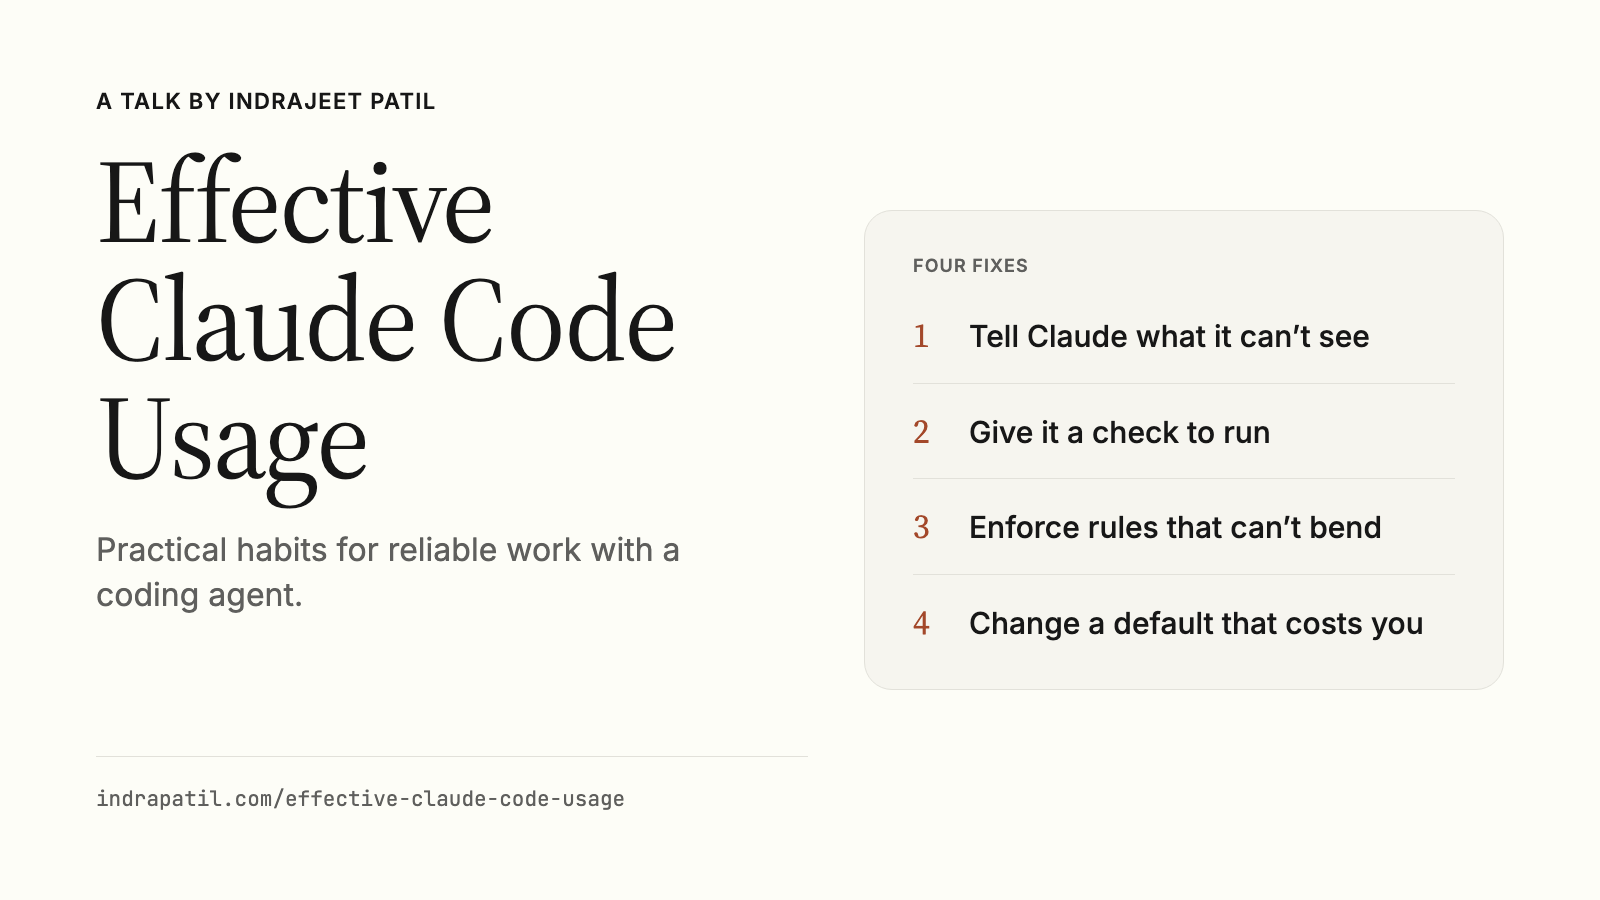
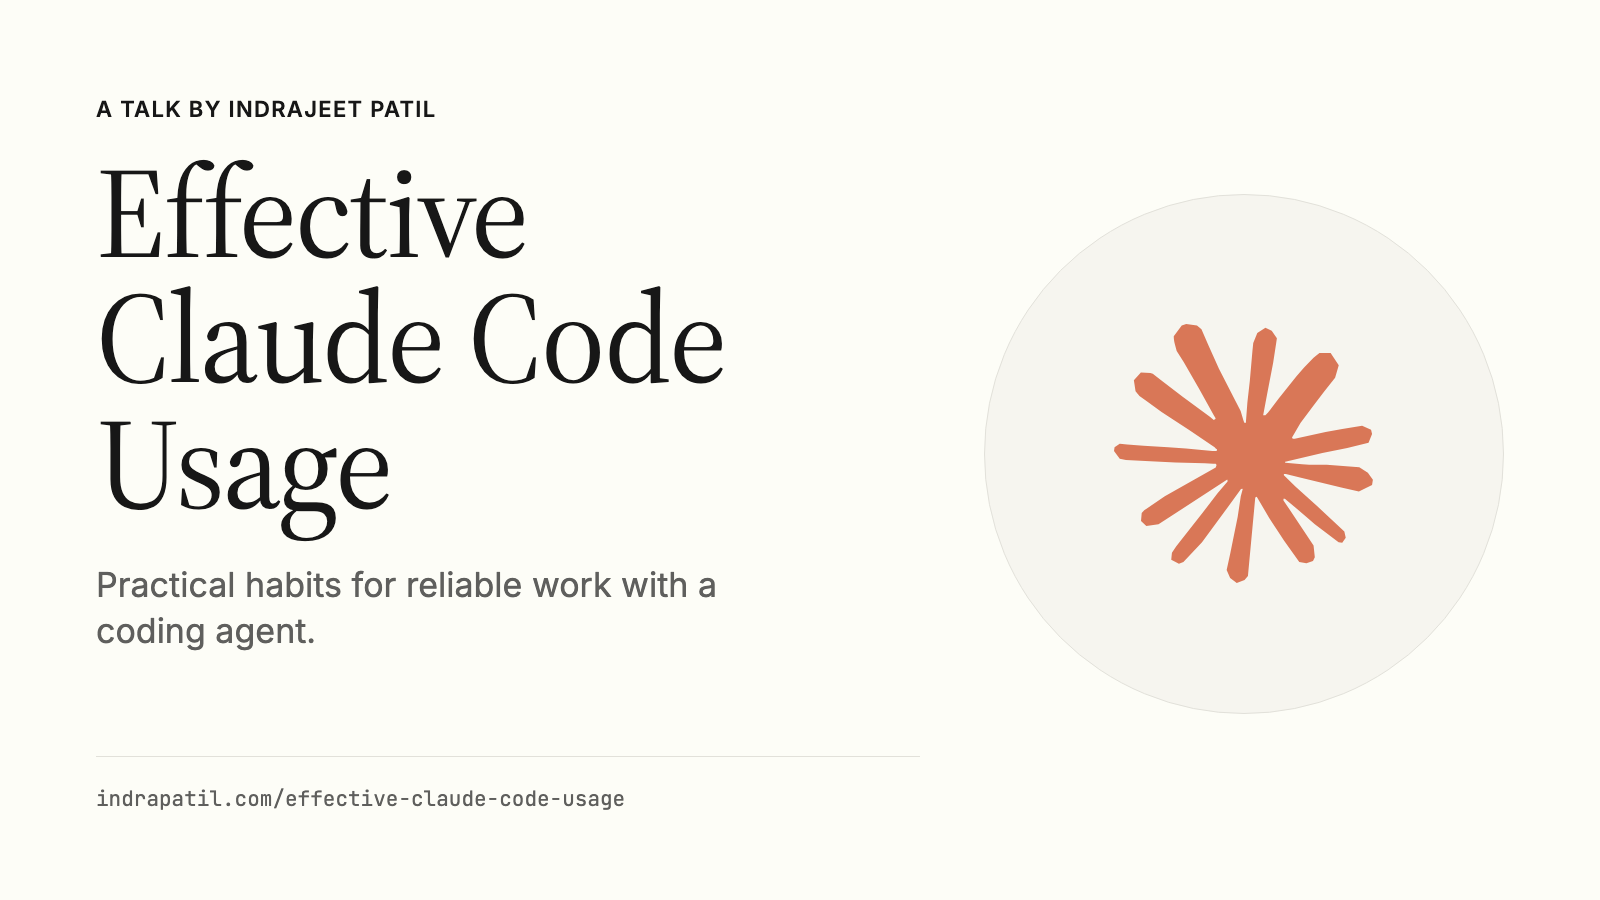
feat(meta): show the claude spark mark on the social card (#71)
Replaces the list of four fixes on the social card with the Claude spark
mark. A social card is seen as a small thumbnail, where a list is
unreadable; a large title plus a recognisable mark reads better.

## Changes

- **Social card:** serif title, subtitle, byline, and URL on the left;
the official Claude spark mark in a soft circular panel on the right
(`media/social-media-card.png`, 1600×900 PNG).
- **Brand asset:** `media/claude-spark.svg` is the unmodified spark SVG
from Anthropic's docs CDN. The Clawd mascot has no published image asset
(it exists only as terminal art), so it is not used.
- **Alt text:** updated in `index.qmd`, `meta-tags.html`, and the
README.
- **Rules:** `DESIGN.md` and the `documentation-illustrations` skill now
allow only the official spark SVG, placed unmodified and kept off the
slides, and forbid generating or redrawing logos or the mascot.

diff --git a/media/social-card-source.html b/media/social-card-source.html
@@ -13,7 +13,6 @@
         --text: #171717;
         --muted: #5f5f5d;
         --hairline: #e2e1da;
-        --clay-ink: #a3482a;
       }
 
       * { box-sizing: border-box; }
@@ -31,10 +30,10 @@
 
       .frame {
         display: grid;
-        grid-template-columns: 1fr 640px;
-        gap: 56px;
+        grid-template-columns: 1fr 520px;
+        gap: 64px;
         height: 100%;
-        padding: 88px 96px;
+        padding: 96px 96px 88px;
       }
 
       .copy {
@@ -51,20 +50,20 @@
       }
 
       h1 {
-        margin: 0 0 32px;
+        margin: 0 0 36px;
         font-family: "Source Serif 4", Georgia, serif;
-        font-size: 118px;
+        font-size: 128px;
         font-weight: 400;
-        line-height: 1;
+        line-height: 0.98;
         letter-spacing: -0.015em;
       }
 
       .subtitle {
         margin: 0;
-        max-width: 640px;
+        max-width: 700px;
         color: var(--muted);
-        font-size: 32px;
-        line-height: 1.4;
+        font-size: 34px;
+        line-height: 1.35;
       }
 
       .site {
@@ -76,55 +75,21 @@
         font-size: 21px;
       }
 
-      .panel {
+      /* The official Claude spark mark (media/claude-spark.svg), unmodified. */
+      .mark {
         align-self: center;
+        display: grid;
+        place-items: center;
+        width: 520px;
+        height: 520px;
+        border-radius: 50%;
         background: var(--panel);
         border: 1px solid var(--hairline);
-        border-radius: 28px;
-        padding: 44px 48px 20px;
       }
 
-      .panel-label {
-        margin: 0 0 12px;
-        color: var(--muted);
-        font-size: 18px;
-        font-weight: 600;
-        letter-spacing: 0.06em;
-        text-transform: uppercase;
-      }
-
-      ol {
-        list-style: none;
-        margin: 0;
-        padding: 0;
-      }
-
-      li {
-        display: grid;
-        grid-template-columns: 56px 1fr;
-        align-items: baseline;
-        padding: 26px 0;
-        border-top: 1px solid var(--hairline);
-        font-size: 30px;
-        font-weight: 500;
-        line-height: 1.25;
-      }
-
-      li:first-child { border-top: none; }
-
-      .n {
-        font-family: "Source Serif 4", Georgia, serif;
-        font-size: 34px;
-        color: var(--clay-ink);
-      }
-
-      code {
-        font-family: "JetBrains Mono", monospace;
-        font-size: 0.86em;
-        font-weight: 400;
-        background: #ebe9e1;
-        border-radius: 6px;
-        padding: 0 6px;
+      .mark img {
+        width: 260px;
+        height: 260px;
       }
     </style>
   </head>
@@ -136,15 +101,9 @@
         <p class="subtitle">Practical habits for reliable work with a coding agent.</p>
         <p class="site">indrapatil.com/effective-claude-code-usage</p>
       </section>
-      <aside class="panel">
-        <p class="panel-label">Four fixes</p>
-        <ol>
-          <li><span class="n">1</span><span>Tell Claude what it can’t see</span></li>
-          <li><span class="n">2</span><span>Give it a check to run</span></li>
-          <li><span class="n">3</span><span>Enforce rules that can’t bend</span></li>
-          <li><span class="n">4</span><span>Change a default that costs you</span></li>
-        </ol>
-      </aside>
+      <div class="mark">
+        <img src="claude-spark.svg" alt="" />
+      </div>
     </main>
   </body>
 </html>

diff --git a/meta-tags.html b/meta-tags.html
@@ -32,7 +32,7 @@
 <meta property="og:type" content="website" />
 <meta property="og:site_name" content="Indrajeet Patil" />
 <meta property="og:locale" content="en_US" />
-<meta property="og:image:alt" content="Effective Claude Code Usage, a talk by Indrajeet Patil, beside a panel of four fixes: tell Claude what it can't see, give it a check to run, enforce rules that can't bend, and change a default that costs you." />
+<meta property="og:image:alt" content="Effective Claude Code Usage, a talk by Indrajeet Patil: practical habits for reliable work with a coding agent, beside the orange Claude spark mark." />
 <meta property="og:image:type" content="image/png" />
 <meta property="og:image:width" content="1600" />
 <meta property="og:image:height" content="900" />
@@ -60,7 +60,7 @@
   name="twitter:image"
   content="https://www.indrapatil.com/effective-claude-code-usage/media/social-media-card.png"
 />
-<meta name="twitter:image:alt" content="Effective Claude Code Usage, a talk by Indrajeet Patil, beside a panel of four fixes: tell Claude what it can't see, give it a check to run, enforce rules that can't bend, and change a default that costs you." />
+<meta name="twitter:image:alt" content="Effective Claude Code Usage, a talk by Indrajeet Patil: practical habits for reliable work with a coding agent, beside the orange Claude spark mark." />
 
 <script type="application/ld+json">
 {

diff --git a/README.md b/README.md
@@ -7,7 +7,7 @@ Slides with practical advice for getting reliable work out of [Claude Code](http
 The slides can be seen here:<br>
 <https://www.indrapatil.com/effective-claude-code-usage/>
 
-[![Effective Claude Code Usage, a talk by Indrajeet Patil, with four fixes](media/social-media-card.png)](https://www.indrapatil.com/effective-claude-code-usage/)
+[![Effective Claude Code Usage, a talk by Indrajeet Patil, with the Claude spark mark](media/social-media-card.png)](https://www.indrapatil.com/effective-claude-code-usage/)
 
 ## Development
 
@@ -41,7 +41,7 @@ just axe      # Preview with an Accessibility Report slide
 just          # Install dependencies and start live-reload preview
 ```
 
-Diagrams come from `media/generate_diagrams.py` (`uv run python media/generate_diagrams.py`); the social card (`media/social-media-card.png`) is a 1600×900 PNG screenshot of `media/social-card-source.html`. See [DESIGN.md](DESIGN.md) for the visual system.
+Diagrams come from `media/generate_diagrams.py` (`uv run python media/generate_diagrams.py`); the social card (`media/social-media-card.png`) is a 1600×900 PNG screenshot of `media/social-card-source.html`, which shows the official Claude spark mark (`media/claude-spark.svg`, from Anthropic's docs). See [DESIGN.md](DESIGN.md) for the visual system.
 
 `just axe` enables the opt-in `a11y` profile. It accepts preview options, for example `just axe --no-browser --port 8834`. Inspect slide and scroll views, including all fragments and tab panels. Run `just render` for the production deck, which excludes the audit payload and report.
 

diff --git a/DESIGN.md b/DESIGN.md
@@ -139,4 +139,4 @@ The format is Quarto RevealJS (`theme: black` as the base, restyled entirely thr
 - **Don't** return to dark backgrounds or neon accents; the deck is light throughout.
 - **Don't** hard-code hex colours in `index.qmd`.
 - **Don't** give cards, callouts, blockquotes, or other text boxes coloured edges: no accent borders, left accent bars, or glows. Diagram boxes are the exception, because the docs' own diagrams use a thin accent outline.
-- **Don't** copy Anthropic logos or wordmarks.
+- **Don't** redraw or modify Anthropic logos, wordmarks, or the Clawd mascot. The only brand asset in the repository is the official Claude spark mark (`media/claude-spark.svg`), used unmodified on the social card; keep it off the slides.

diff --git a/.agents/skills/documentation-illustrations/SKILL.md b/.agents/skills/documentation-illustrations/SKILL.md
@@ -27,8 +27,9 @@ at `https://code.claude.com/docs/llms.txt`) lists its images on
 locally, and credit it in a single line: `Illustration: Claude Code docs,
 <page title>` linked to the page. Generate only what no existing image covers.
 
-Never reproduce Anthropic or Claude logos, the asterisk mark, wordmarks, or
-product screenshots in generated art.
+Never generate, redraw, or imitate Anthropic or Claude logos, the spark mark,
+wordmarks, the Clawd mascot, or product screenshots. If a design needs the
+brand mark, place the official SVG from Anthropic's CDN, unmodified.
 
 ## Family A: technical diagram
 
